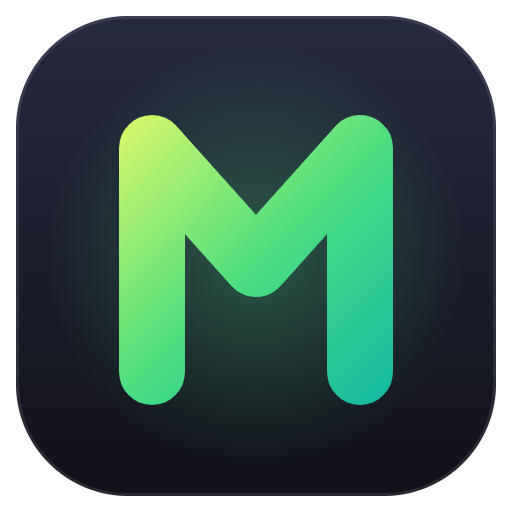
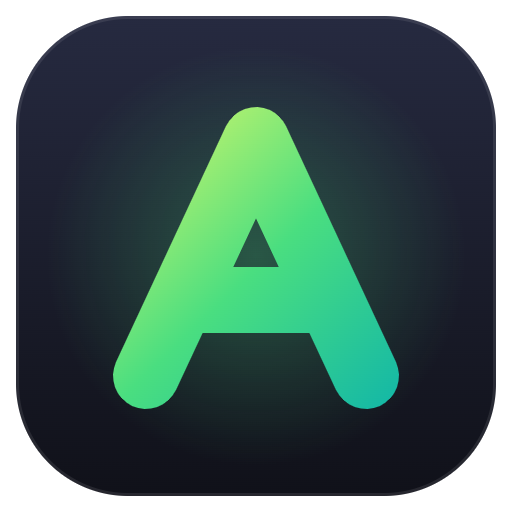
feat: MyMusic agora é Arion (projeto Firebase novo)
- Nome Arion em tudo e ícone "A"
- Firebase novo arion-cifras; GitHub Pages em /arion-web/
- Chaves do navegador arion.* (copia as mymusic.* antigas uma vez)
- make-icons acha o traço de qualquer letra (travava com o "A")

Changed region(s): [[0.2188, 0.1875, 0.7812, 0.7812], [0.6875, 0.7812, 0.75, 0.8125], [0.25, 0.7812, 0.3125, 0.8125]]

diff --git a/public/privacidade.html b/public/privacidade.html
@@ -3,7 +3,7 @@
   <head>
     <meta charset="UTF-8" />
     <meta name="viewport" content="width=device-width, initial-scale=1.0" />
-    <title>MyMusic — Política de privacidade</title>
+    <title>Arion — Política de privacidade</title>
     <link rel="icon" type="image/png" href="icon.png" />
     <style>
       :root { color-scheme: light dark; --fg: #1b1d24; --muted: #5b6070; --bg: #f7f8fa; --link: #1f8f4e; }
@@ -25,12 +25,12 @@
         <img src="icon.png" alt="" />
         <div>
           <h1>Política de privacidade</h1>
-          <div class="muted">MyMusic — cifras e repertórios · atualizada em 20/10/2026</div>
+          <div class="muted">Arion — cifras e repertórios · atualizada em 20/10/2026</div>
         </div>
       </header>
 
       <p>
-        O MyMusic é um app pessoal e gratuito para guardar cifras, montar repertórios e tocar ao vivo
+        O Arion é um app pessoal e gratuito para guardar cifras, montar repertórios e tocar ao vivo
         (Android, Windows e navegador). Esta página explica quais dados ele usa e para quê.
       </p>
 
@@ -51,7 +51,7 @@
           Elas continuam suas: os outros só podem sugerir mudanças.</li>
         <li>Repertórios e grupos são vistos só pelas pessoas que fazem parte do grupo.</li>
         <li>Se você usar a cópia de segurança no Google Drive, ela fica numa pasta privada do app na sua conta
-          (só o MyMusic acessa).</li>
+          (só o Arion acessa).</li>
         <li>A busca de letra envia o nome da música para o <a href="https://lrclib.net">LRCLIB</a>; nenhum dado
           seu vai junto.</li>
       </ul>
@@ -68,14 +68,14 @@
         Você pode apagar as suas músicas e repertórios pelo próprio app. Para apagar tudo, inclusive a sua
         conta e os grupos, mande um e-mail para
         <a href="mailto:mviniciusdospassos@gmail.com">mviniciusdospassos@gmail.com</a> e eu apago em até 30 dias.
-        Também dá para tirar o acesso do MyMusic à sua conta Google em
+        Também dá para tirar o acesso do Arion à sua conta Google em
         <a href="https://myaccount.google.com/permissions">myaccount.google.com/permissions</a>.
       </p>
 
       <h2>Contato</h2>
       <p>Dúvidas: <a href="mailto:mviniciusdospassos@gmail.com">mviniciusdospassos@gmail.com</a>.</p>
 
-      <p class="muted"><a href="./">Abrir o MyMusic</a></p>
+      <p class="muted"><a href="./">Abrir o Arion</a></p>
     </main>
   </body>
 </html>

diff --git a/src/views/AoVivo.vue b/src/views/AoVivo.vue
@@ -9,12 +9,12 @@ import type { Modo } from '../live';
 import * as be from '../backend';
 
 function ultima() {
-  try { return localStorage.getItem('mymusic.ultimaSessao') ?? ''; } catch { return ''; }
+  try { return localStorage.getItem('arion.ultimaSessao') ?? ''; } catch { return ''; }
 }
 const endereco = ref(ultima());
 async function conectar() {
   if (await entrar(endereco.value)) {
-    try { localStorage.setItem('mymusic.ultimaSessao', endereco.value.trim()); } catch { /* sem storage */ }
+    try { localStorage.setItem('arion.ultimaSessao', endereco.value.trim()); } catch { /* sem storage */ }
     // já tem música aberta lá: abre aqui também
     const n = live.nav;
     if (n && live.modo === 'segue' && (be.songById(n.songId) || live.songs[n.songId]))
@@ -37,7 +37,7 @@ meuNome();
       <template v-if="!live.ativo">
         <div class="card">
           <h3 class="section-title"><span class="ms">cell_tower</span>Entrar numa sessão</h3>
-          <p class="muted">Crie a sessão no tablet ou celular (MyMusic → <b>Ao vivo</b> → Criar sessão) e
+          <p class="muted">Crie a sessão no tablet ou celular (Arion → <b>Ao vivo</b> → Criar sessão) e
             digite aqui o <b>código</b> que aparece lá. Este computador precisa estar na mesma rede (Wi-Fi).</p>
           <form class="linha" @submit.prevent="conectar">
             <input v-model="endereco" placeholder="Código (ex.: 4821) ou endereço" inputmode="decimal" class="grow" autofocus />

diff --git a/src/firebase.ts b/src/firebase.ts
@@ -13,12 +13,12 @@ import {
  * null = nuvem ainda não configurada (o editor usa o Drive como antes).
  */
 const firebaseConfig: FirebaseOptions | null = {
-  apiKey: 'AIzaSyDJrINzDLOL52Mz5au7H0zay0pdmMrPUsg',
-  authDomain: 'cifras-779b6.firebaseapp.com',
-  projectId: 'cifras-779b6',
-  storageBucket: 'cifras-779b6.firebasestorage.app',
-  messagingSenderId: '167404504785',
-  appId: '1:167404504785:web:a1c18245a702ea718467f0',
+  apiKey: 'AIzaSyC--2c2wMRa4pNx9LWBc1UR1dUJtKnNZT0',
+  authDomain: 'arion-cifras.firebaseapp.com',
+  projectId: 'arion-cifras',
+  storageBucket: 'arion-cifras.firebasestorage.app',
+  messagingSenderId: '911820467893',
+  appId: '1:911820467893:web:cae4a90cb261cb9d8058fc',
 };
 
 const EMU = (import.meta.env.VITE_MYMUSIC_EMU as string | undefined) ?? '';
@@ -29,7 +29,7 @@ export let auth: Auth | null = null;
 export let db: Firestore | null = null;
 
 const opts: FirebaseOptions | null = emulador
-  ? { apiKey: 'demo-key', projectId: 'demo-mymusic', appId: '1:1:web:1', authDomain: 'demo-mymusic.firebaseapp.com' }
+  ? { apiKey: 'demo-key', projectId: 'demo-arion', appId: '1:1:web:1', authDomain: 'demo-arion.firebaseapp.com' }
   : firebaseConfig;
 
 if (opts) {

diff --git a/src/nav.ts b/src/nav.ts
@@ -46,9 +46,19 @@ window.addEventListener('popstate', () => {
 
 // ---------- preferências deste navegador ----------
 
+// antes do nome Arion as chaves eram "mymusic.*": copia uma vez p/ "arion.*"
+try {
+  for (let i = 0; i < localStorage.length; i++) {
+    const k = localStorage.key(i)!;
+    if (!k.startsWith('mymusic.')) continue;
+    const novo = 'arion.' + k.slice('mymusic.'.length);
+    if (localStorage.getItem(novo) === null) localStorage.setItem(novo, localStorage.getItem(k)!);
+  }
+} catch { /* sem storage */ }
+
 function ler<T>(k: string, padrao: T): T {
   try {
-    const v = localStorage.getItem('mymusic.' + k);
+    const v = localStorage.getItem('arion.' + k);
     return v === null ? padrao : (JSON.parse(v) as T);
   } catch { return padrao; }
 }
@@ -73,7 +83,7 @@ export const prefs = reactive({
 
 watch(prefs, (p) => {
   for (const [k, v] of Object.entries(p)) {
-    try { localStorage.setItem('mymusic.' + k, JSON.stringify(v)); } catch { /* sem storage */ }
+    try { localStorage.setItem('arion.' + k, JSON.stringify(v)); } catch { /* sem storage */ }
   }
   document.documentElement.dataset.theme = p.tema;
   aplicarTema(p.cor, p.tema);

diff --git a/src/views/Inicio.vue b/src/views/Inicio.vue
@@ -97,7 +97,7 @@ const fecharMenu = () => (menu.value = null);
 
 <template>
   <div @click="fecharMenu">
-    <AppBar titulo="MyMusic" sem-voltar>
+    <AppBar titulo="Arion" sem-voltar>
       <template #logo><img src="/icon.png" class="logo" alt="" /></template>
       <!-- grupo em uso; clicar abre a lista de grupos -->
       <template v-if="cloud.grupo" #sub>
@@ -138,7 +138,7 @@ const fecharMenu = () => (menu.value = null);
       </template>
       <template v-else-if="cloud.liberado === false">
         <h2 class="section-title"><span class="ms">lock_clock</span>Acesso ainda não liberado</h2>
-        <p>Peça p/ alguém que já usa o MyMusic te adicionar num grupo (pelo e-mail {{ cloud.user.email }}).
+        <p>Peça p/ alguém que já usa o Arion te adicionar num grupo (pelo e-mail {{ cloud.user.email }}).
           Ao ser adicionado, o seu acesso é liberado.</p>
         <div class="acoes-entrar">
           <button class="btn" @click="conferirLiberacao()"><span class="ms">refresh</span>Já me adicionaram</button>

diff --git a/src/views/Config.vue b/src/views/Config.vue
@@ -44,7 +44,7 @@ function exportar() {
   const blob = new Blob([JSON.stringify(dados, null, 1)], { type: 'application/json' });
   const a = document.createElement('a');
   a.href = URL.createObjectURL(blob);
-  a.download = `mymusic-backup-${new Date().toISOString().slice(0, 10)}.json`;
+  a.download = `arion-backup-${new Date().toISOString().slice(0, 10)}.json`;
   a.click();
   setTimeout(() => URL.revokeObjectURL(a.href), 4000);
 }
@@ -144,7 +144,7 @@ async function importar(e: Event) {
         <button class="btn text" @click="abrir({ nome: 'atividade' })">Ver histórico</button>
       </section>
 
-      <p class="faint fim">MyMusic</p>
+      <p class="faint fim">Arion</p>
     </div>
   </div>
 </template>

diff --git a/scripts/parity.ts b/scripts/parity.ts
@@ -1,10 +1,10 @@
 // Confere que o parser web dá exatamente o mesmo resultado do app Flutter.
-// Uso: rode antes `flutter test test/parser_parity_test.dart` no mymusic,
+// Uso: rode antes `flutter test test/parser_parity_test.dart` no arion,
 // depois `node scripts/parity.ts`.
 import { readFileSync } from 'node:fs';
 import { importText, detectMeta, suggestKey, transposeChord } from '../src/chordEngine.ts';
 
-const APP = '../mymusic';
+const APP = '../arion';
 const cases: string[] = JSON.parse(readFileSync(`${APP}/test/fixtures/parser_cases.json`, 'utf8'));
 const dart = JSON.parse(readFileSync(`${APP}/build/parser_dart.json`, 'utf8'));
 

diff --git a/src/views/Grupo.vue b/src/views/Grupo.vue
@@ -47,7 +47,7 @@ const criando = ref(false);
 
         <div v-if="cloud.liberado === false" class="card">
           <h3 class="section-title"><span class="ms">lock_clock</span>Acesso ainda não liberado</h3>
-          <p>Peça p/ alguém que já usa o MyMusic te adicionar num grupo (pelo e-mail {{ cloud.user.email }}).
+          <p>Peça p/ alguém que já usa o Arion te adicionar num grupo (pelo e-mail {{ cloud.user.email }}).
             Ao ser adicionado, o seu acesso é liberado.</p>
           <button class="btn" @click="conferirLiberacao()"><span class="ms">refresh</span>Já me adicionaram</button>
         </div>

diff --git a/src/letras.ts b/src/letras.ts
@@ -14,7 +14,7 @@ export async function buscarLetras(termo: string): Promise<LetraAchada[]> {
   if (!q) return [];
   // o navegador não deixa mudar o User-Agent; o LRCLIB aceita esse cabeçalho
   const r = await fetch(`https://lrclib.net/api/search?q=${encodeURIComponent(q)}`, {
-    headers: { 'Lrclib-Client': 'MyMusic (cifras e repertorios)' },
+    headers: { 'Lrclib-Client': 'Arion (cifras e repertorios)' },
   });
   if (!r.ok) throw new Error(`O site de letras respondeu ${r.status}`);
   const vistos = new Set<string>();

diff --git a/index.html b/index.html
@@ -5,7 +5,7 @@
     <meta name="viewport" content="width=device-width, initial-scale=1.0" />
     <meta name="theme-color" content="#0d0e13" />
     <link rel="preload" href="/fonts/geist-latin-wght-normal.woff2" as="font" type="font/woff2" crossorigin />
-    <title>MyMusic</title>
+    <title>Arion</title>
     <link rel="icon" type="image/png" href="/icon.png" />
     <link rel="preconnect" href="https://fonts.googleapis.com" />
     <link rel="preconnect" href="https://fonts.gstatic.com" crossorigin />

diff --git a/src/cloud.ts b/src/cloud.ts
@@ -39,7 +39,7 @@ export interface Versao {
 const ts = (v: unknown): Date | null =>
   v && typeof (v as Timestamp).toDate === 'function' ? (v as Timestamp).toDate() : null;
 
-const PREF = 'mymusic.grupo';
+const PREF = 'arion.grupo';
 // cada aba lembra o grupo escolhido (preferência deste navegador)
 function lerPref(): string { try { return localStorage.getItem(PREF) ?? ''; } catch { return ''; } }
 function gravarPref(id: string) { try { localStorage.setItem(PREF, id); } catch { /* sem storage */ } }

diff --git a/src/style.css b/src/style.css
@@ -1,4 +1,4 @@
-/* MyMusic — mesma família visual do Kino e do Strata: grafite quase preto,
+/* Arion — mesma família visual do Kino e do Strata: grafite quase preto,
    Geist, bordas finas e destaque em degradê. O destaque (--primary, --grad,
    --chord...) vem de tema.ts (cor escolhida nas configurações). */
 @font-face {
